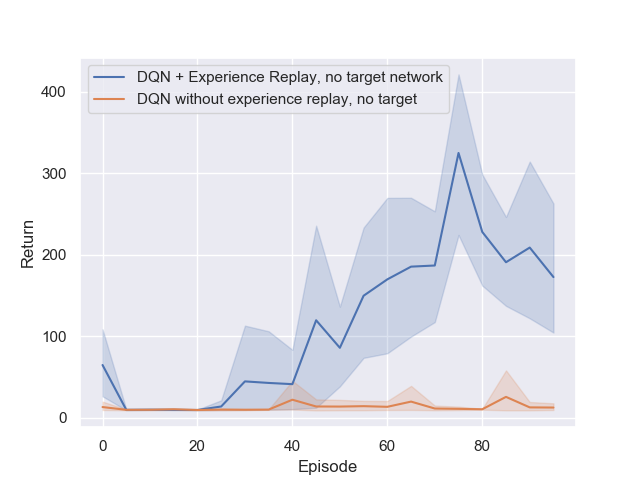
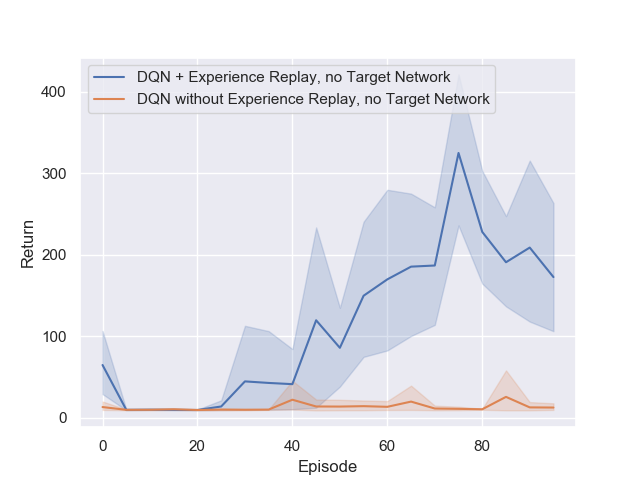
fix capital letters in legends

diff --git a/plot_stuff.py b/plot_stuff.py
@@ -13,7 +13,7 @@ def run_fig_1():
     results = pickle.load(open('results_for_figs.pkl', 'rb'))
     test_df = pd.DataFrame(results)
     new_df = test_df[['episode', 'replay_steps1_repeats10','no-replay_steps1_repeats10' ]].copy()
-    new_df.columns= ['episode', 'DQN + Experience Replay, no target network', 'DQN without experience replay, no target']
+    new_df.columns= ['episode', 'DQN + Experience Replay, no Target Network', 'DQN without Experience Replay, no Target Network']
     plt.figure()
     lineplot = sns.lineplot(x='episode', y='value', hue='variable', 
                 data=pd.melt(new_df, ['episode']), ci=95)
@@ -28,7 +28,7 @@ def run_fig_2():
     results = pickle.load(open('results_for_figs.pkl', 'rb'))
     test_df = pd.DataFrame(results)
     new_df = test_df[['episode', 'replay_steps1_repeats10','replay_steps50_repeats10', 'replay_steps200_repeats10' ]].copy()
-    new_df.columns= ['episode', 'DQN + Experience Replay, no target network', 'DQN + experience replay, Target Network 50', 'DQN + experience replay, Target Network 200']
+    new_df.columns= ['episode', 'DQN + Experience Replay, no Target Network', 'DQN + Experience Replay, Target Network 50', 'DQN + Experience Replay, Target Network 200']
     plt.figure()
     lineplot = sns.lineplot(x='episode', y='value', hue='variable', 
                 data=pd.melt(new_df, ['episode']), ci=95)
@@ -43,7 +43,7 @@ def run_fig_3():
     results = pickle.load(open('results_for_figs.pkl', 'rb'))
     test_df = pd.DataFrame(results)
     new_df = test_df[['episode', 'no-replay_steps1_repeats10','no-replay_steps50_repeats10', 'no-replay_steps200_repeats10' ]].copy()
-    new_df.columns= ['episode', 'DQN without Experience Replay, no target network', 'DQN without experience replay, Target Network 50', 'DQN without experience replay, Target Network 200']
+    new_df.columns= ['episode', 'DQN without Experience Replay, no Target Network', 'DQN without Experience Replay, Target Network 50', 'DQN without Experience Replay, Target Network 200']
     plt.figure()
     lineplot = sns.lineplot(x='episode', y='value', hue='variable', 
                 data=pd.melt(new_df, ['episode']), ci=95)
